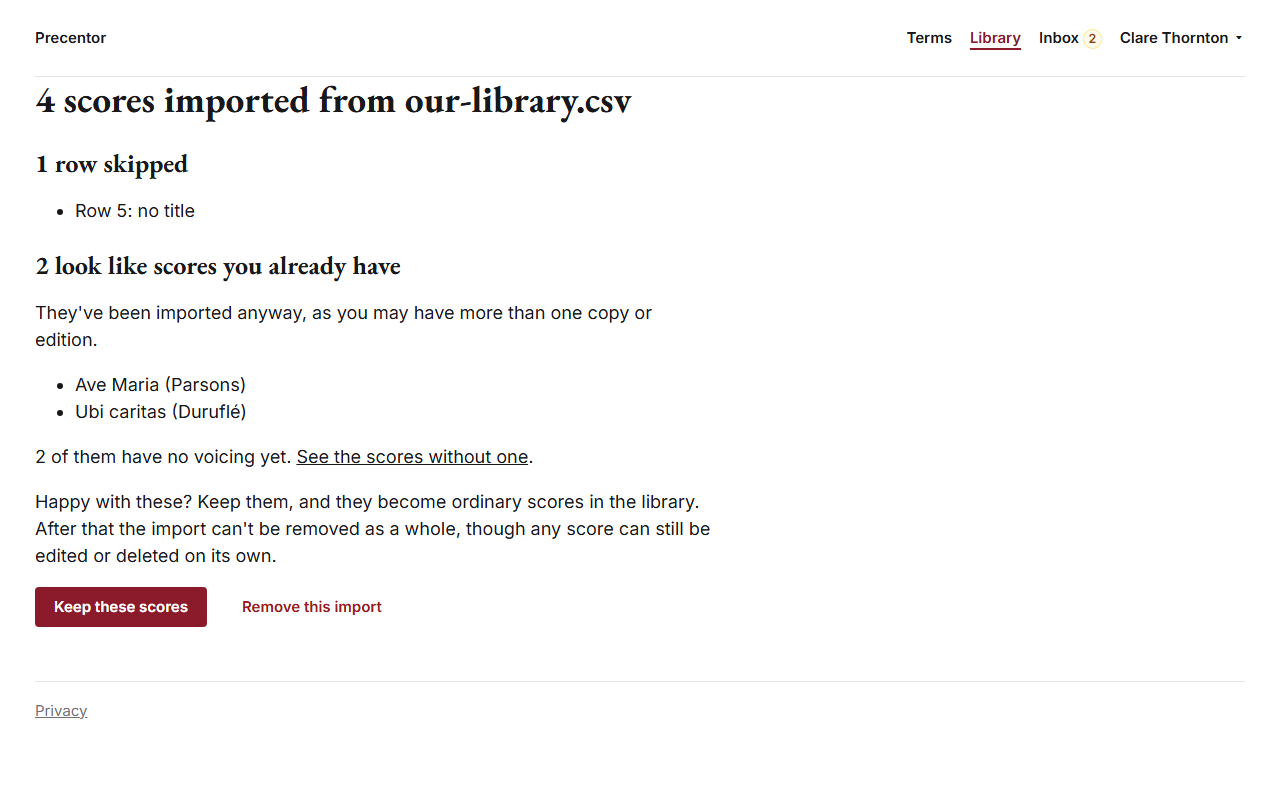
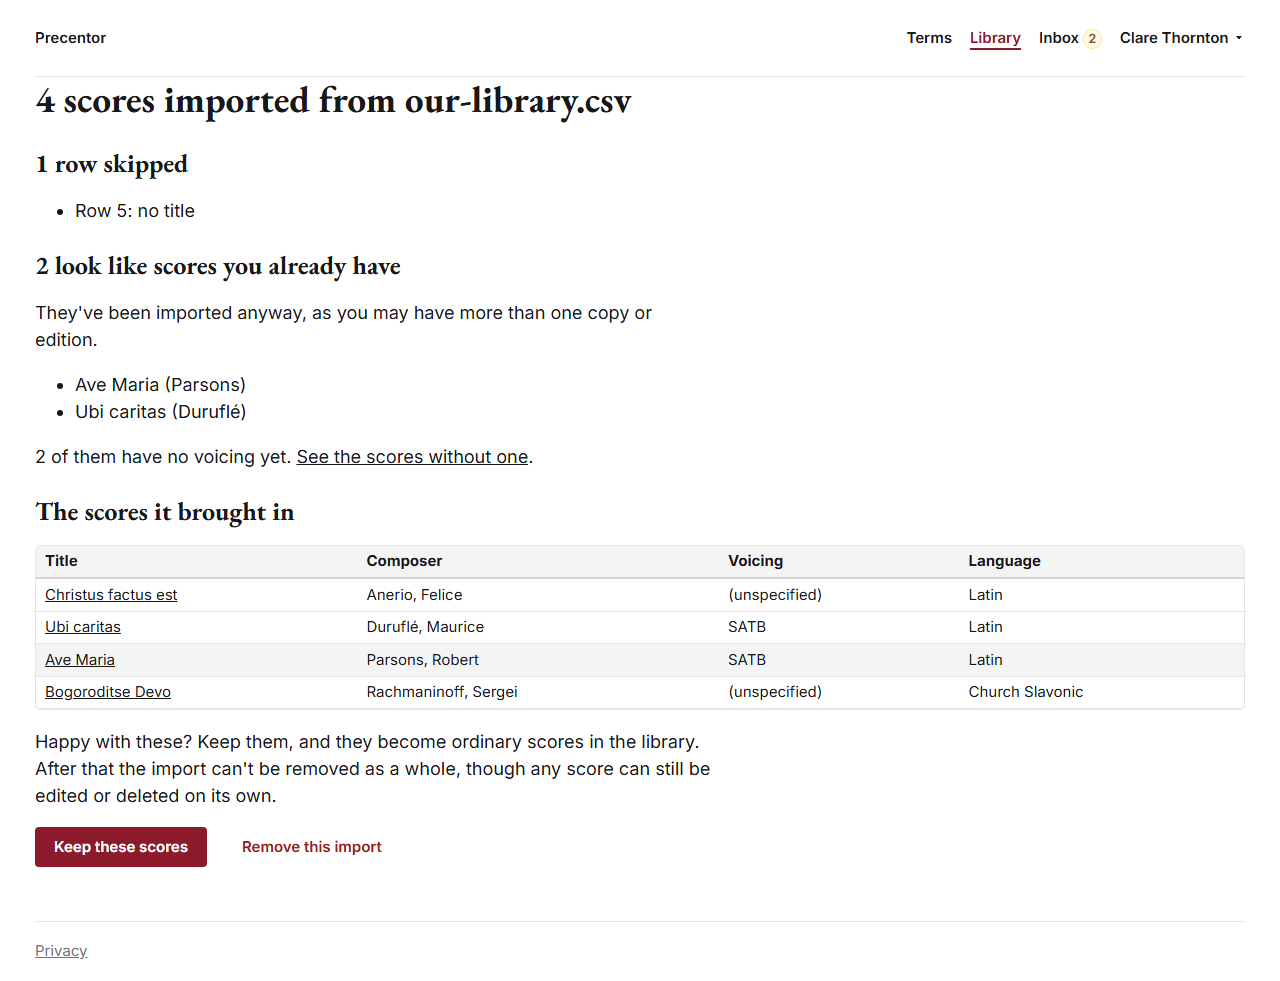
Record the import result page's missing list as found and fixed
The page asked for a decision without showing the scores. Row M33 now
expects the list and records the fix, the bugs table has the entry,
and the two screenshots of the page show it as it is now.

diff --git a/docs/testing.md b/docs/testing.md
@@ -303,7 +303,7 @@ To run them, see "Running it locally" in the README.
 | M30  | Delete your own account    | As a member, Change password, Delete your account, give the password                                          | Signed out, the account gone, their comments shown as "A former member"; the owner is told to hand over first | Pass: "Your account has been deleted"; their comment now reads "A former member"; signing in refused; the owner opening the page is told to hand over ownership first |
 | M31  | Delete the church          | As the owner, Settings, Delete this church, type its name                                                     | The page lists what will go; a wrong name is refused; the right one deletes everything and signs out | Pass: the page listed what goes; a wrong name was refused; the right name deleted the church, and Terms then led to the sign-in page |
 | M32  | Privacy page               | Follow Privacy in the footer, signed in and out                                                                | The page explains what's kept and how to leave                       | Pass: the Privacy link in the footer, signed in and signed out |
-| M33  | Import a spreadsheet       | Library, Import; download the template, fill in a few rows, choose the file, Import                           | The chosen file's name and size shown; then the result page with the count, any skipped rows and why, and how many have no voicing; a notice on the Library | Pass: the file's name and size shown on choosing it; the result page counted 2 imported, row 3 skipped for having no title, a likely duplicate noted, 1 with no voicing (Test figure 6); a notice on the Library |
+| M33  | Import a spreadsheet       | Library, Import; download the template, fill in a few rows, choose the file, Import                           | The chosen file's name and size shown; then the result page with the count, any skipped rows and why, how many have no voicing, and a list of the scores imported with their composer, voicing and language; a notice on the Library | Fail, then fixed (`f4e842b`): the result page asked "Happy with these?" without listing the scores. Since: the file's name and size shown on choosing it; the result page counts what was imported and skipped and how many have no voicing, then lists each score imported with its composer, voicing and language, "(unspecified)" where empty (Test figure 6); a notice on the Library |
 | M34  | Keep or remove an import   | From the notice, Review it; Keep these scores. Import again; Remove this import and confirm                    | Keeping closes the import; removing deletes its scores, keeping any already planned into a service | Pass: Keep closed the import and the notice went; Remove asked first and took its scores away. A score already planned being kept: by `test_a_score_already_planned_is_kept_and_the_page_says_so` |
 | M35  | A file that's too big      | Choose a file over 2 MB                                                                                       | Said at once, with the Import button disabled; without JavaScript the server refuses it        | Pass: with JavaScript, "big.csv is 2.0 MB, more than the 2.0 MB limit" and Import disabled; without, the server refused it: "The file is larger than 2 MB" |
 | M36  | Export the library         | Library, Export                                                                                               | A CSV named with the date, in the import's columns; it imports into an empty church unchanged  | Pass: `precentor-library-2026-11-10.csv` in the import's columns; imported into a new, empty church and exported again, the two files were identical |
@@ -356,9 +356,9 @@ _Test figure 4. M25: a Viewer refused, with the reason._
 
 _Test figure 5. M27: the 404 page, with DEBUG off as on the live site._
 
-![An import's result page: 1 score imported, one row skipped for having no title, 1 with no voicing yet, and buttons to keep or remove the import](screenshots/testing/m33-import-result.png)
+![An import's result page: 1 score imported, one row skipped for having no title, 1 with no voicing yet, a table listing Christus factus est by Anerio with no voicing, and buttons to keep or remove the import](screenshots/testing/m33-import-result.png)
 
-_Test figure 6. M33: what an import brought in and what it skipped._
+_Test figure 6. M33: what an import brought in, listed, and what it skipped._
 
 ![The pew sheet for the First Sunday of Advent, with the Ave Maria's Latin text beside its English translation](screenshots/testing/m44-pew-sheet.png)
 
@@ -517,6 +517,7 @@ testing, fixed, and covered by a test where it could be.
 | `945b43f` | An Ordinary Form weekday service with no occasion, borrowing the Sunday before's chants, was a server error when it had an Alleluia or Tract slot (row M58) |
 | `c5a8833` | A slot named Canticle was given the kind Other, so it was never offered the day's canticle (row M57) |
 | `89073e1`, `f15b70c` | The Library had no season, use or occasion filter, though the README and row M08 said it had; a season in its address only reordered the list |
+| `f4e842b` | An import's result page asked "Happy with these?" without listing the scores it had brought in (row M33); tests in `0398cc3` |
 
 The flake8 findings left at submission (16 long lines, a variable named
 `l` and a lambda) were cleared in `86ad9e8`. No fault found in the app is left unfixed;

diff --git a/README.md b/README.md
@@ -236,9 +236,9 @@ in a spreadsheet and brought back in.
 
 _Figure 8. Importing: the steps, an example of the columns, and the chosen file's size before it uploads._
 
-![The result of an import: 4 scores imported, one row skipped for having no title, two that look like scores already in the library, and a note that 2 have no voicing yet, with Keep and Remove buttons](docs/screenshots/25-import-result.png)
+![The result of an import: 4 scores imported, one row skipped for having no title, two that look like scores already in the library, a note that 2 have no voicing yet, a table of the four scores with their composer, voicing and language, and Keep and Remove buttons](docs/screenshots/25-import-result.png)
 
-_Figure 9. What an import brought in, what it skipped and why, and the choice to keep or remove it._
+_Figure 9. What an import brought in, listed score by score, what it skipped and why, and the choice to keep or remove it._
 
 **Texts.** A score can also hold the words it sets, a translation and
 who made the translation, for the pew sheet (§4). The score's page
@@ -1873,7 +1873,7 @@ again on 10 November 2026 on the code now live. In short:
   real server and drive Chromium through Playwright, so the JavaScript
   is tested too.
 - **Manual tests:** 58 rows covering every feature, each carried out in
-  Google Chrome with its result, and screenshots beside them. Four
+  Google Chrome with its result, and screenshots beside them. Five
   failed and were fixed, each with its commit.
 - **Widths and browsers:** 25 pages at 320, 375, 768, 1024 and 1280
   pixels in Chromium, Firefox and WebKit, with nothing wider than the
